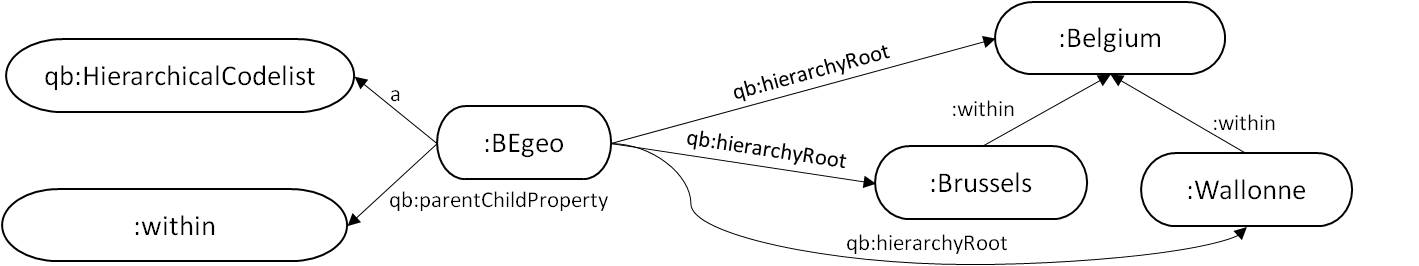
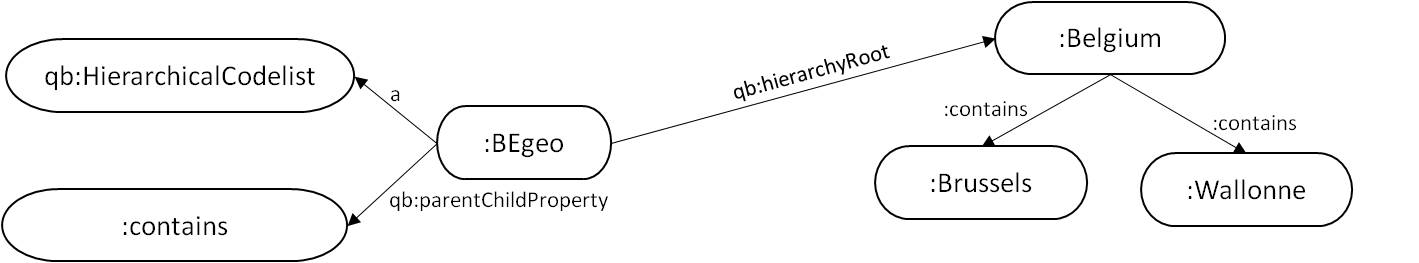
Fix issue #2

diff --git a/index.html b/index.html
@@ -816,15 +816,13 @@ John works for the National Statistical Institute of Belgium and is in charge of
 		<img src="images/bp9.2_eg3.jpg" width=900>
 		<pre>
 :BEgeo a qb:HierarchicalCodelist;
-            qb:parentChildProperty :within;
-            qb:hierarchyRoot :Belgium;
-            qb:hierarchyRoot :Brussels;
-            qb:hierarchyRoot :Wallone.
-:Belgium a skos:Concept.
-:Brussels a skos:Concept;
-            :within :Begium.
-:Wallonne a skos:Concept;
-            :within :Begium.
+            qb:parentChildProperty :contains;
+            qb:hierarchyRoot :Belgium.            
+:Belgium a skos:Concept;
+           :contains :Brussels;
+           :contains :Wallonne.		   
+:Brussels a skos:Concept.
+:Wallonne a skos:Concept.
 			</pre>
 	</aside>
 	<p>Sometimes, case-specific properties are exploited to express hierarchies. This approach enables the definition of generalization/specialization relations not covered by SKOS and XKOS (e.g. administeredBy vs within). However, without using any standard vocabulary the  interpretation of the data is not always self descriptive.</p>
